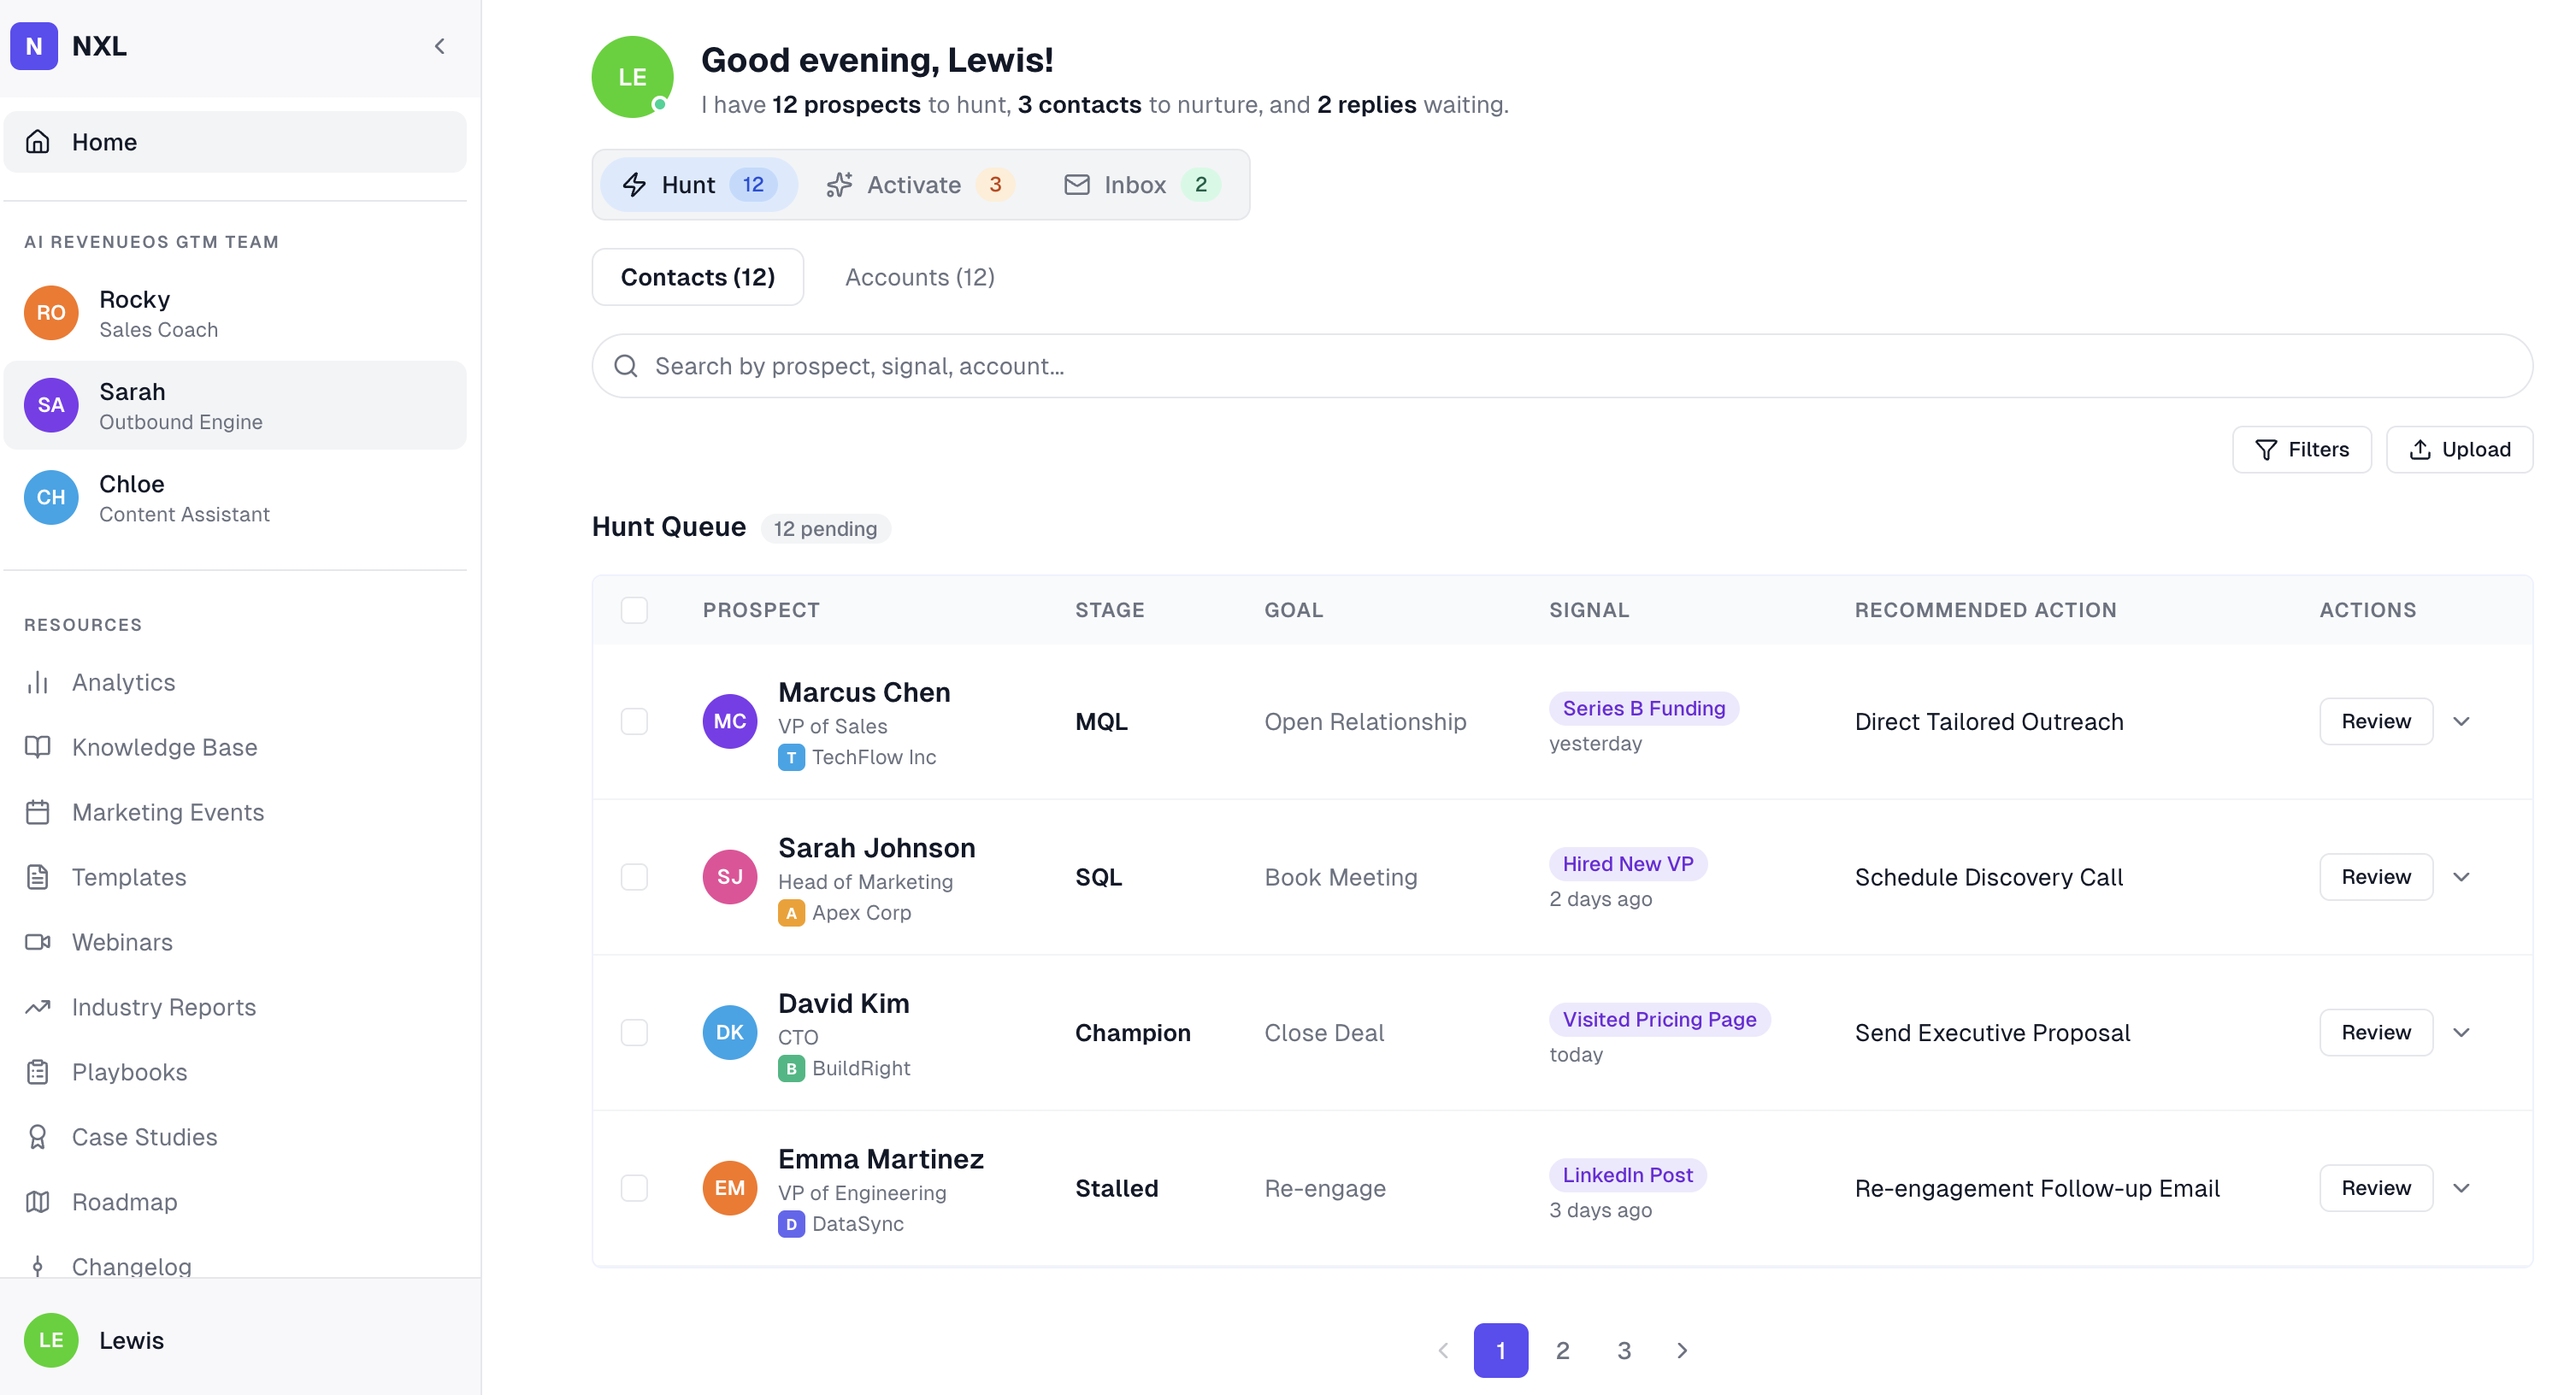
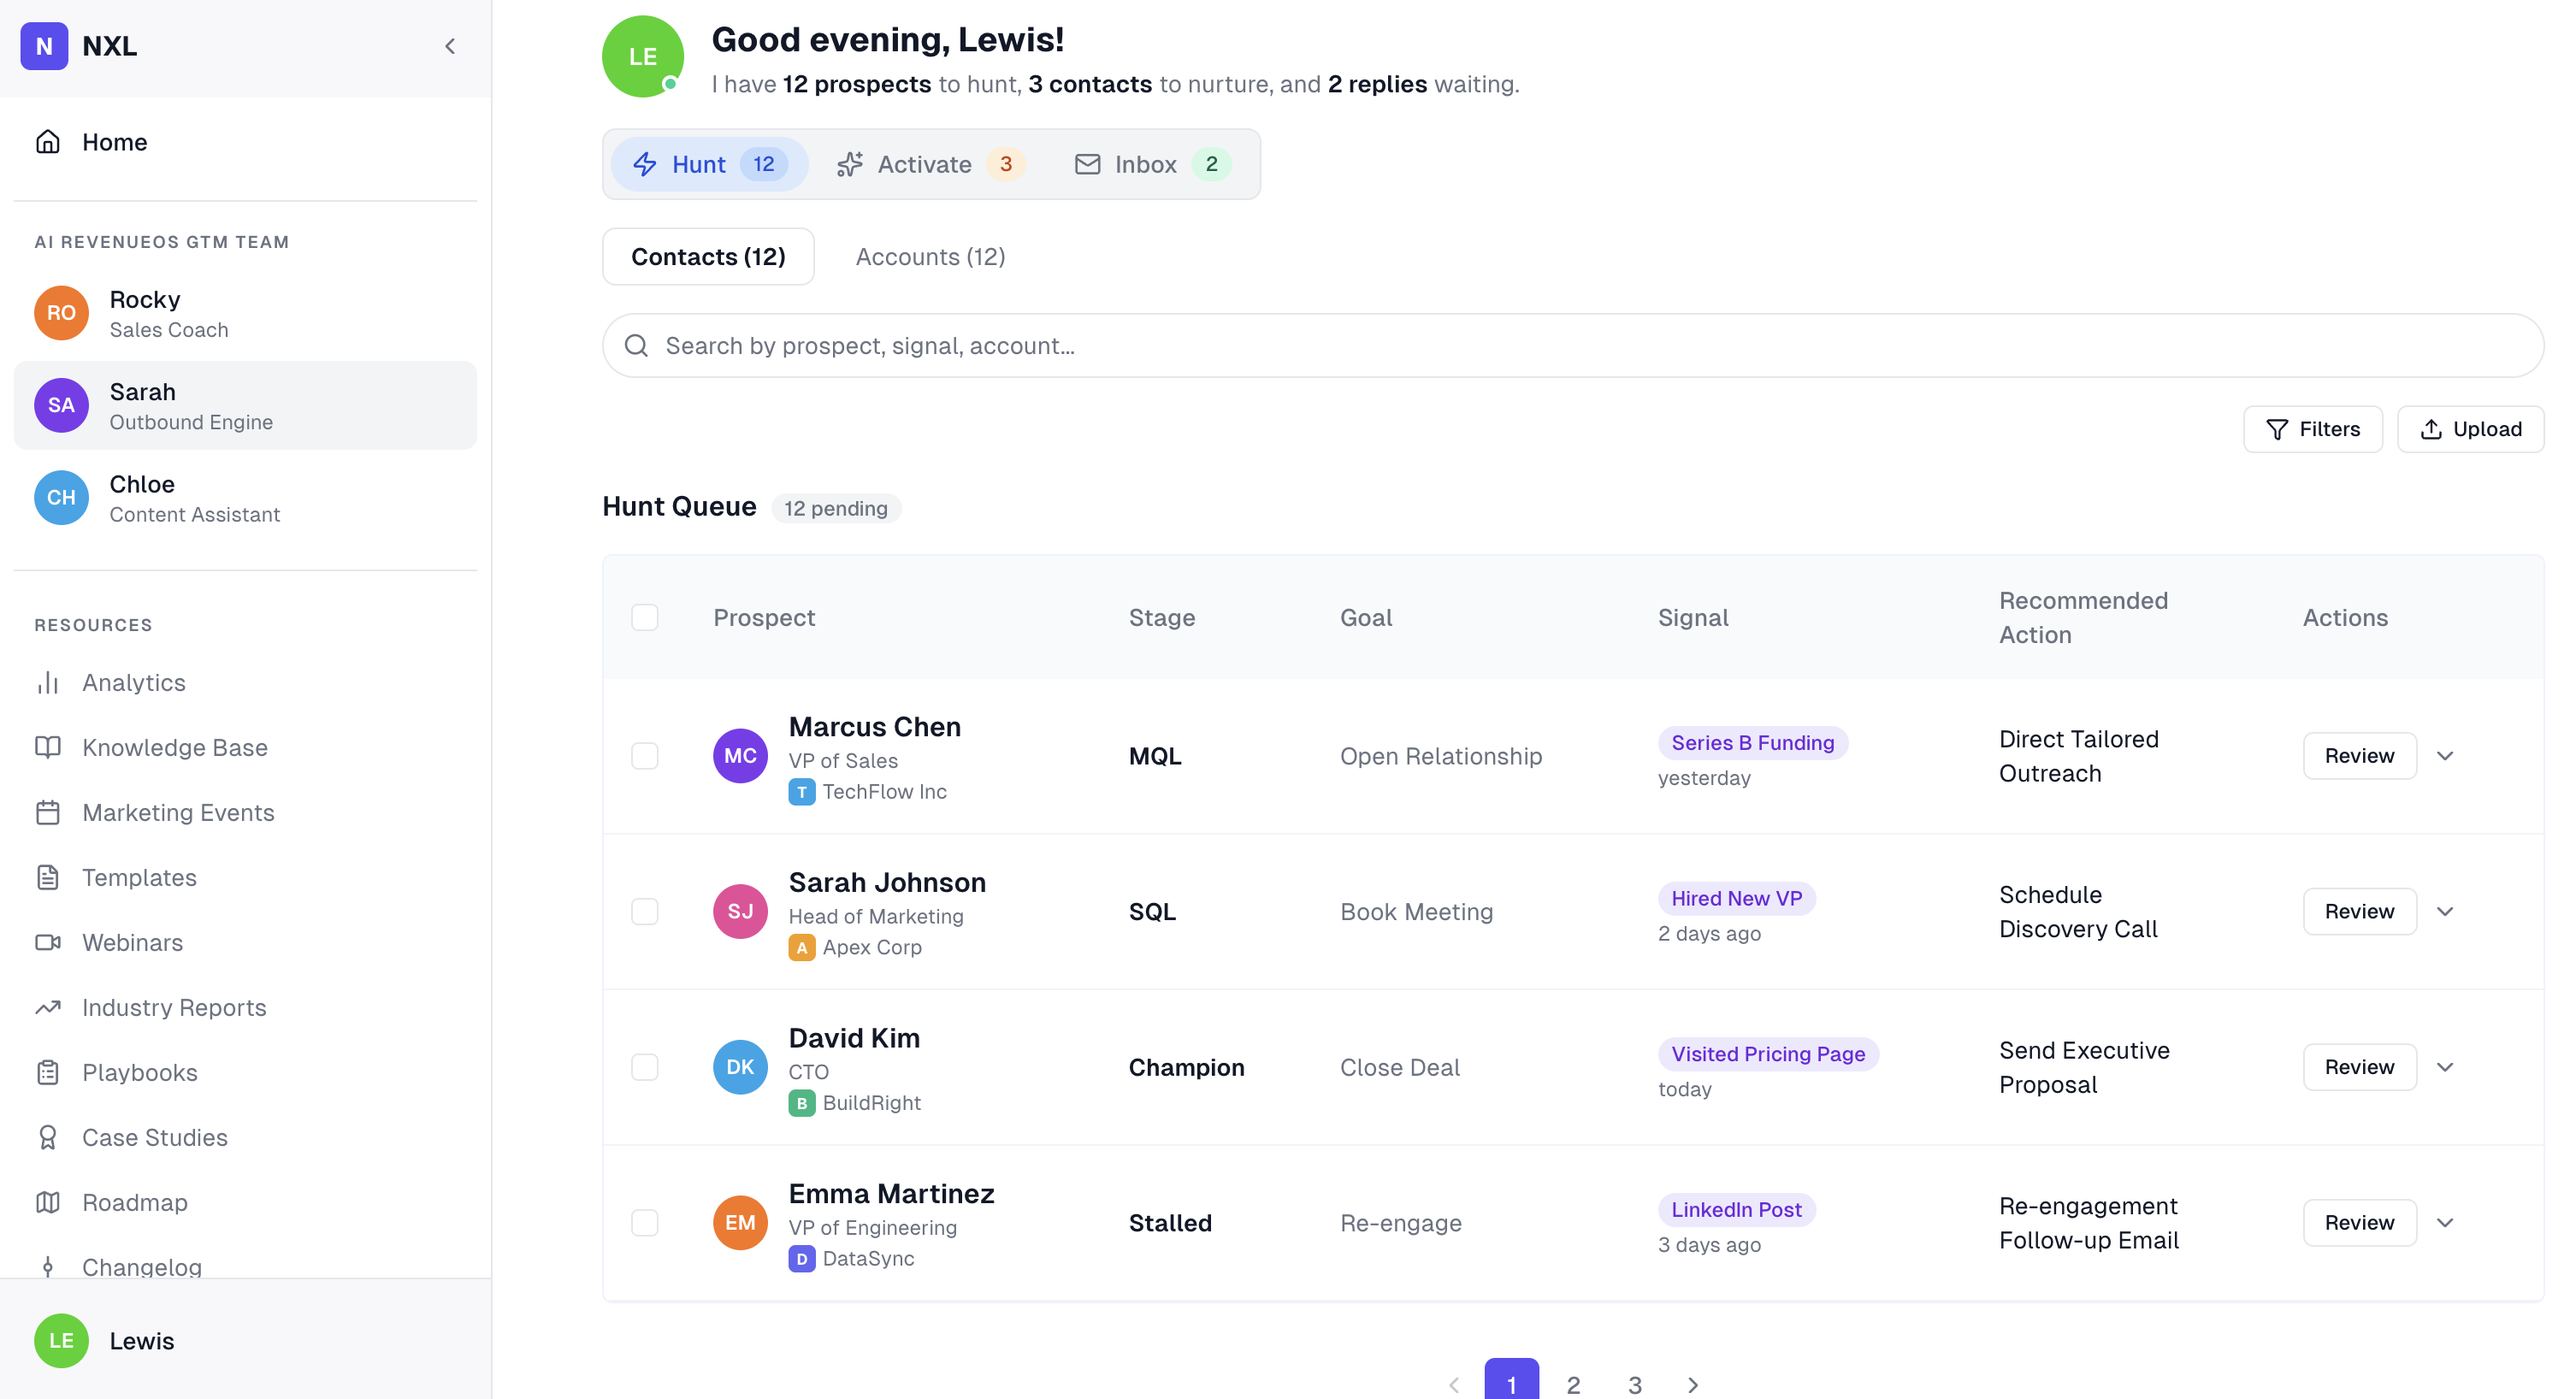
fix: update dashboard tab styles and improve accessibility in DashboardPage

diff --git a/src/components/dashboard/TabBar.tsx b/src/components/dashboard/TabBar.tsx
@@ -21,7 +21,7 @@ const TABS: TabConfig[] = [
     label: 'Hunt',
     icon: <Zap className="h-4 w-4" />,
     badgeVariant: 'hunt',
-    selectedTab: 'rounded-2xl bg-hunt-badge text-text-primary hover:bg-hunt-badge',
+    selectedTab: 'rounded-2xl bg-hunt-badge text-hunt-badge-text hover:bg-hunt-badge',
     selectedBadge: 'bg-hunt-badge-strong text-hunt-badge-text',
   },
   {
@@ -29,7 +29,7 @@ const TABS: TabConfig[] = [
     label: 'Activate',
     icon: <Sparkles className="h-4 w-4" />,
     badgeVariant: 'activate',
-    selectedTab: 'rounded-2xl bg-activate-badge text-text-primary hover:bg-activate-badge',
+    selectedTab: 'rounded-2xl bg-activate-badge text-activate-badge-text hover:bg-activate-badge',
     selectedBadge: 'bg-activate-badge-strong text-activate-badge-text',
   },
   {
@@ -37,7 +37,7 @@ const TABS: TabConfig[] = [
     label: 'Inbox',
     icon: <Mail className="h-4 w-4" />,
     badgeVariant: 'inbox',
-    selectedTab: 'rounded-2xl bg-inbox-badge text-text-primary hover:bg-inbox-badge',
+    selectedTab: 'rounded-2xl bg-inbox-badge text-inbox-badge-text hover:bg-inbox-badge',
     selectedBadge: 'bg-inbox-badge-strong text-inbox-badge-text',
   },
 ];

diff --git a/src/pages/DashboardPage.tsx b/src/pages/DashboardPage.tsx
@@ -14,8 +14,18 @@ export function DashboardPage() {
 
   return (
     <AppShell>
+      <a
+        href="#main-content"
+        className="bg-primary focus-visible:ring-primary sr-only z-50 rounded-md px-3 py-2 text-sm font-medium text-white focus:not-sr-only focus:absolute focus:top-2 focus:left-2 focus-visible:ring-2 focus-visible:outline-none"
+      >
+        Skip to main content
+      </a>
       <Sidebar />
-      <main className="flex flex-col overflow-y-auto bg-white [scrollbar-gutter:stable]">
+      <main
+        id="main-content"
+        tabIndex={-1}
+        className="flex flex-col overflow-y-auto bg-white [scrollbar-gutter:stable] focus:outline-none"
+      >
         <GreetingHeader />
         <div className="flex-1 px-0 pb-8">
           <TabBar huntPanel={<HuntPanel />} />

diff --git a/src/components/layout/Sidebar.tsx b/src/components/layout/Sidebar.tsx
@@ -22,7 +22,7 @@ export function Sidebar() {
         'text-text-muted flex items-center gap-3 rounded-lg px-3 py-2 text-sm transition-colors',
         'hover:text-text-primary hover:bg-gray-100',
         'focus-visible:ring-primary focus-visible:ring-2 focus-visible:outline-none',
-        isHome && 'text-text-primary bg-gray-100 font-medium',
+        isHome && 'text-text-primary bg-white font-medium',
       )}
     >
       <Home className="h-4 w-4 shrink-0" />
